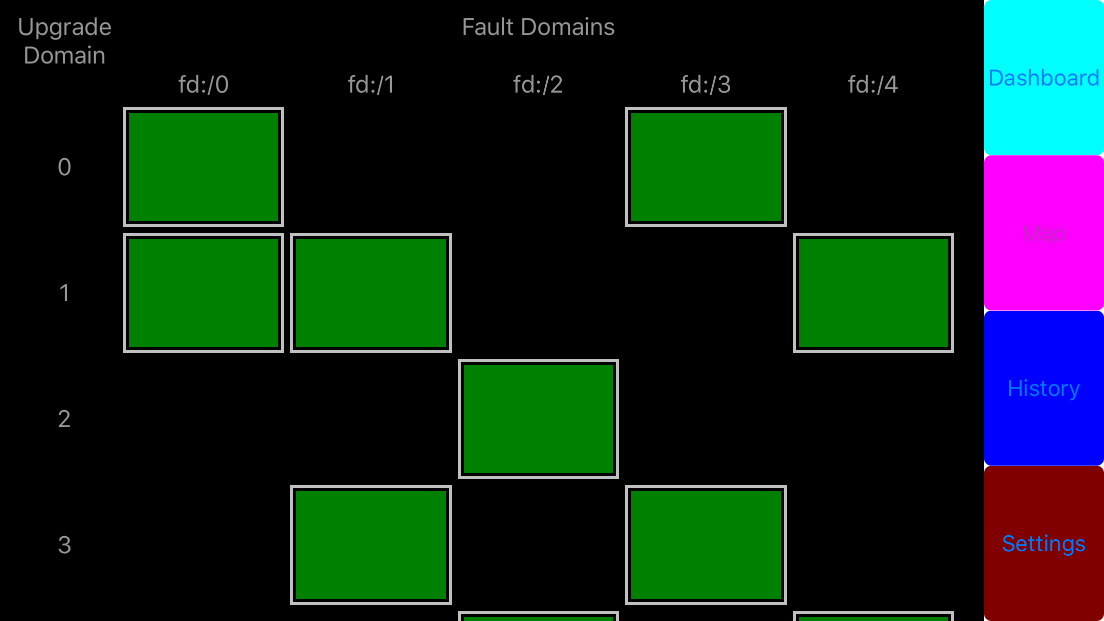
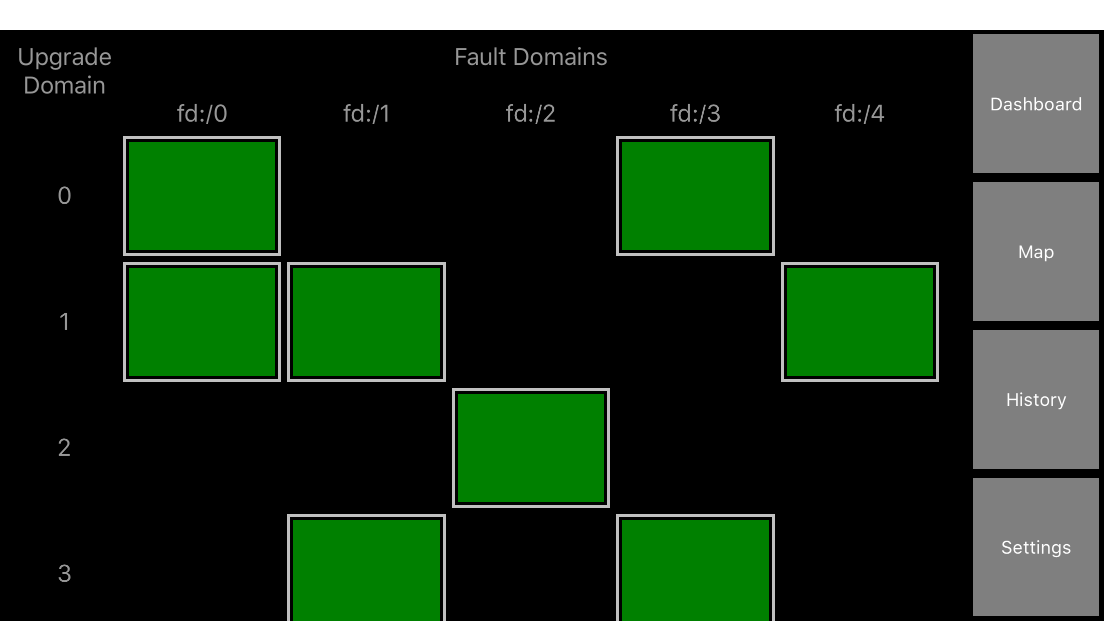
updated screenshots

diff --git a/DashboardClient/Views/ClusterDashboardView.xaml b/DashboardClient/Views/ClusterDashboardView.xaml
@@ -56,7 +56,7 @@
 				</Grid>
 			</ContentView>
 
-			<Grid x:Name="ResourceSidebar" Grid.Row="2" Grid.Column="0" BackgroundColor="Blue" RowSpacing="0">
+			<Grid x:Name="ResourceSidebar" Grid.Row="2" Grid.Column="0" BackgroundColor="#7F7F7F" RowSpacing="0" Margin="0,2,0,0">
 				<Grid.ColumnDefinitions>
 					<ColumnDefinition Width="*"/>
 				</Grid.ColumnDefinitions>
@@ -74,6 +74,7 @@
 				<Label Grid.Row="2" Text="CPU" TextColor="White" VerticalTextAlignment="Center"/>
 				<Label Grid.Row="3" Text="Memory" TextColor="White" VerticalTextAlignment="Center"/>
 				<Label Grid.Row="4" Text="Grains" TextColor="White" VerticalTextAlignment="Center"/>
+				<Label Grid.Row="5" Text="Activ." TextColor="White" VerticalTextAlignment="Center"/>
 			</Grid>
 
 			<ScrollView x:Name="SiloScrollView" Grid.Row="2" Grid.Column="1" Margin="0,2,0,0" Orientation="Horizontal" BackgroundColor="Black">
